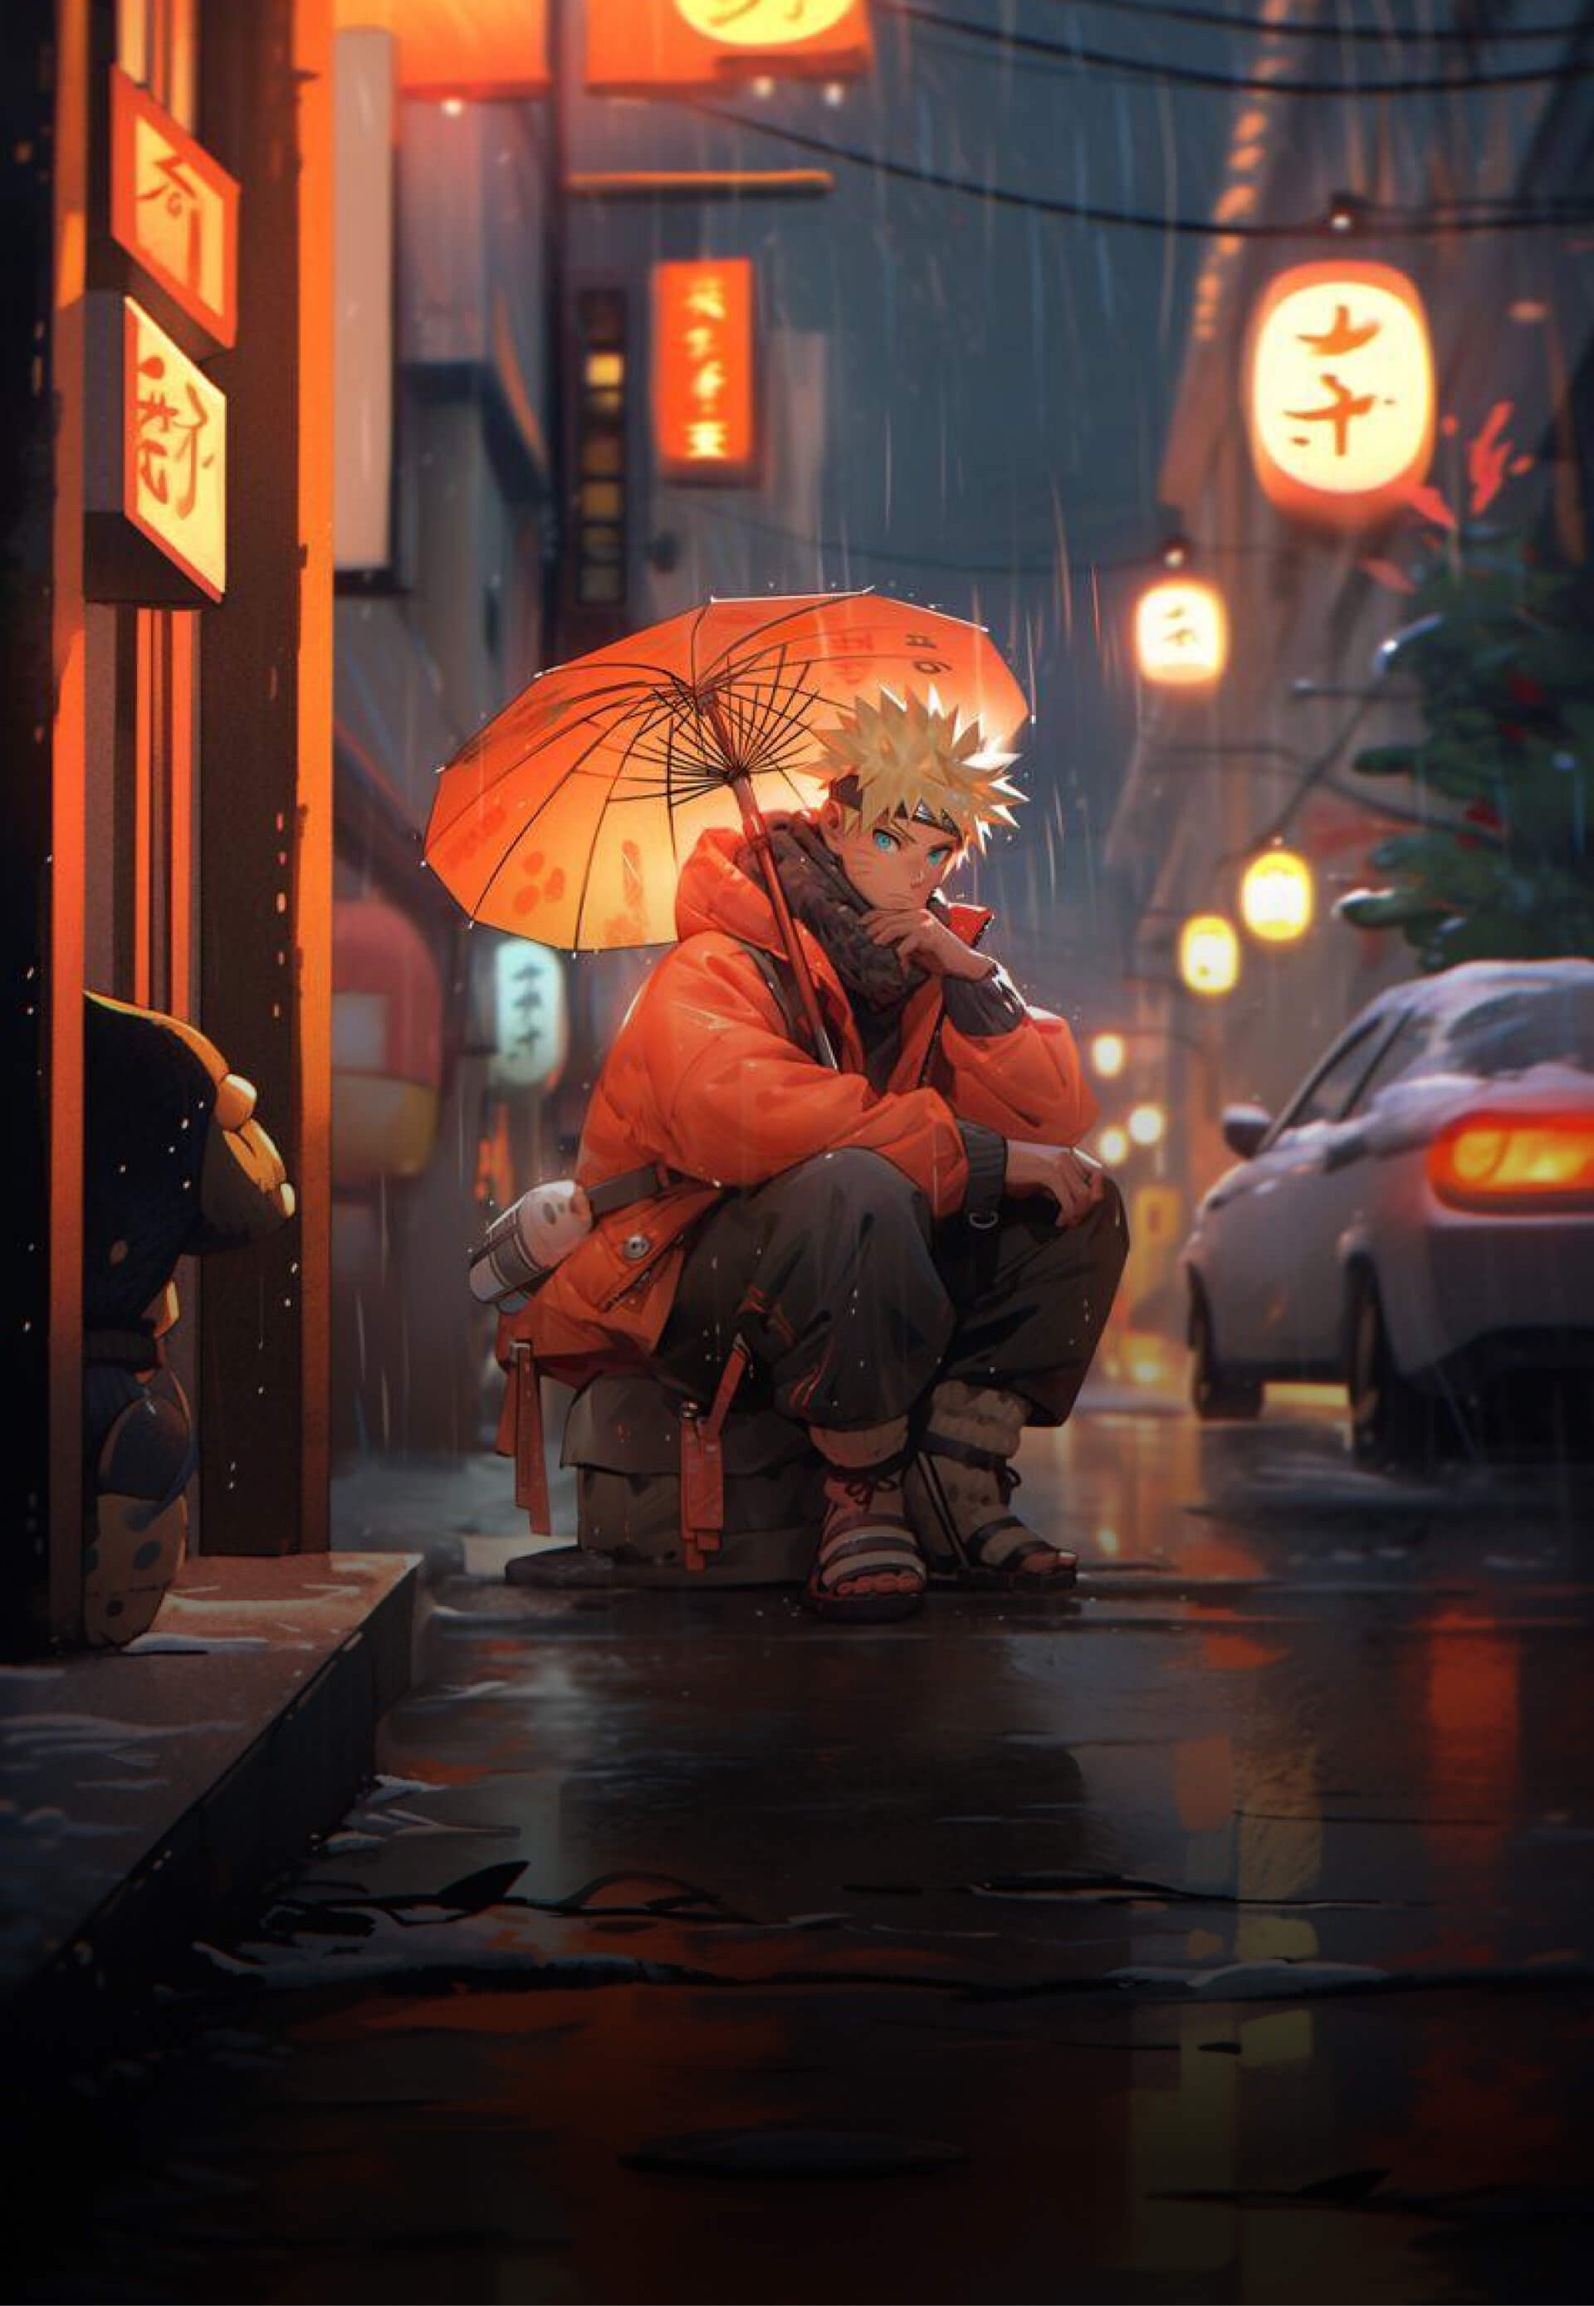
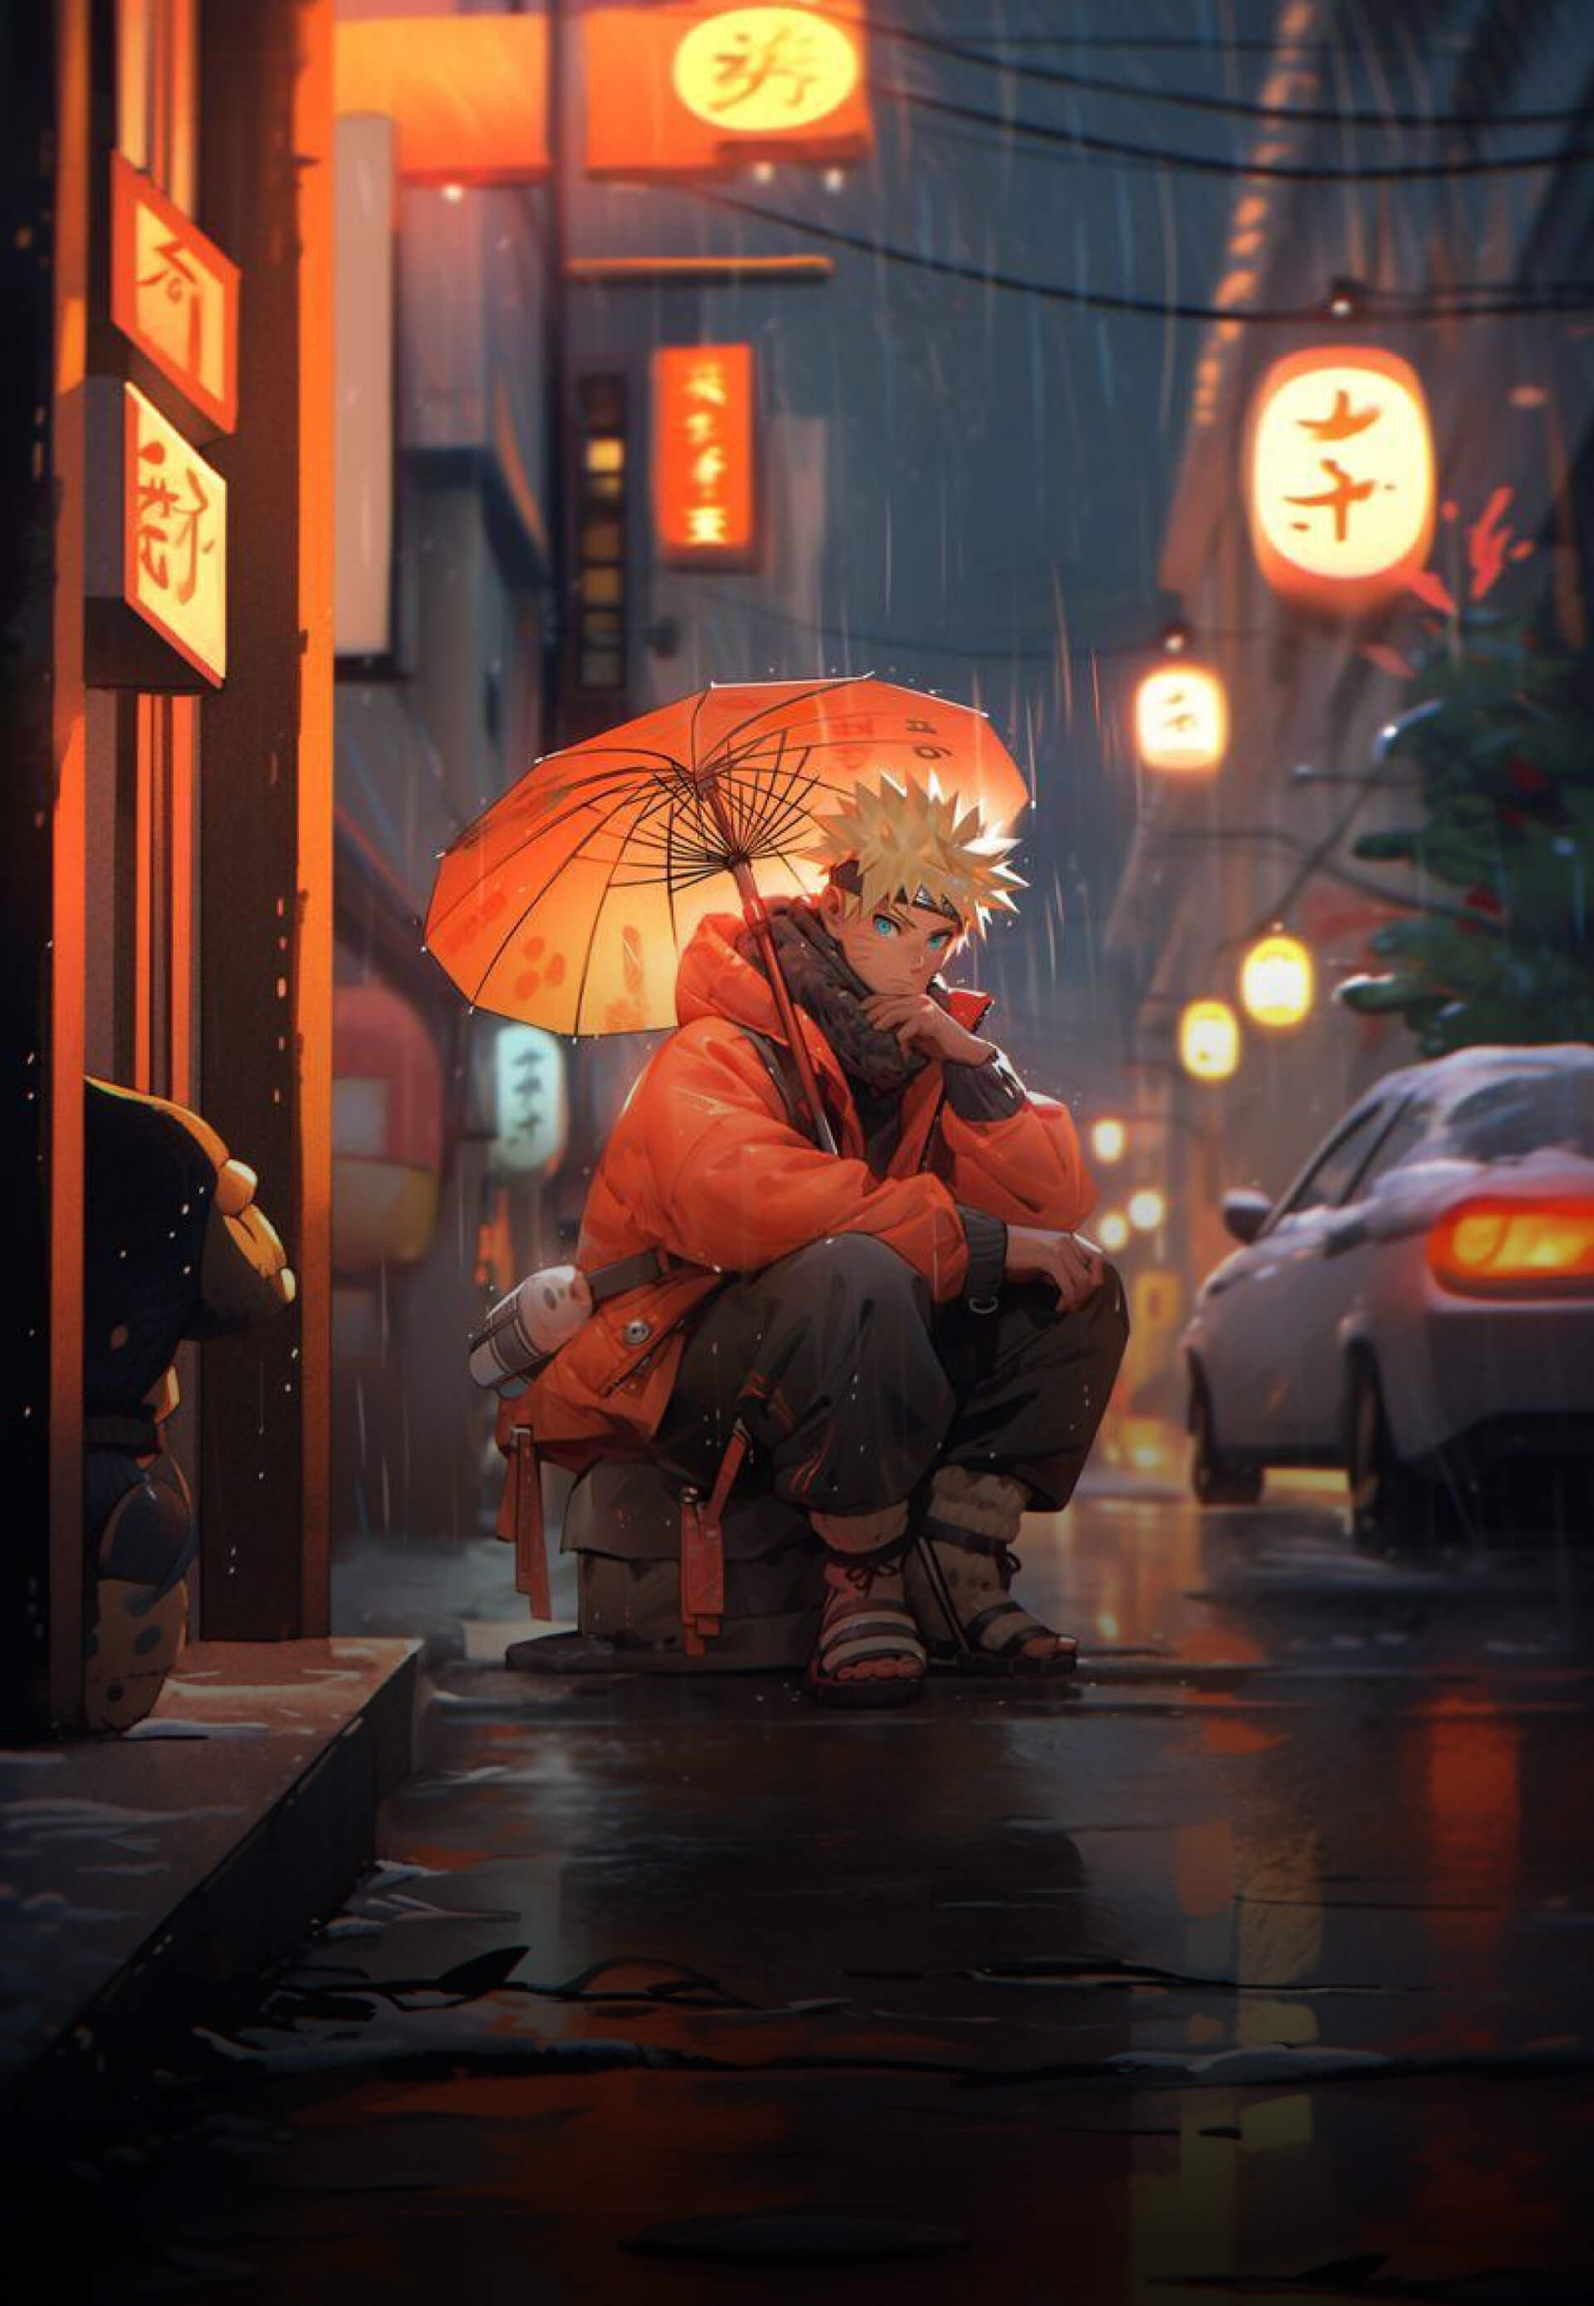
update

diff --git a/src/assets/scss/_main.scss b/src/assets/scss/_main.scss
@@ -6,8 +6,8 @@
     position: relative;
     background-image: url("../img/naruto__bg.jpg");
     background-repeat: no-repeat;
-    background-position: bottom center;
-    background-size: 100% 100%;
+    background-position: center;
+    background-size: 100% auto;
     z-index: 1;
     &::before{
         position: absolute;
